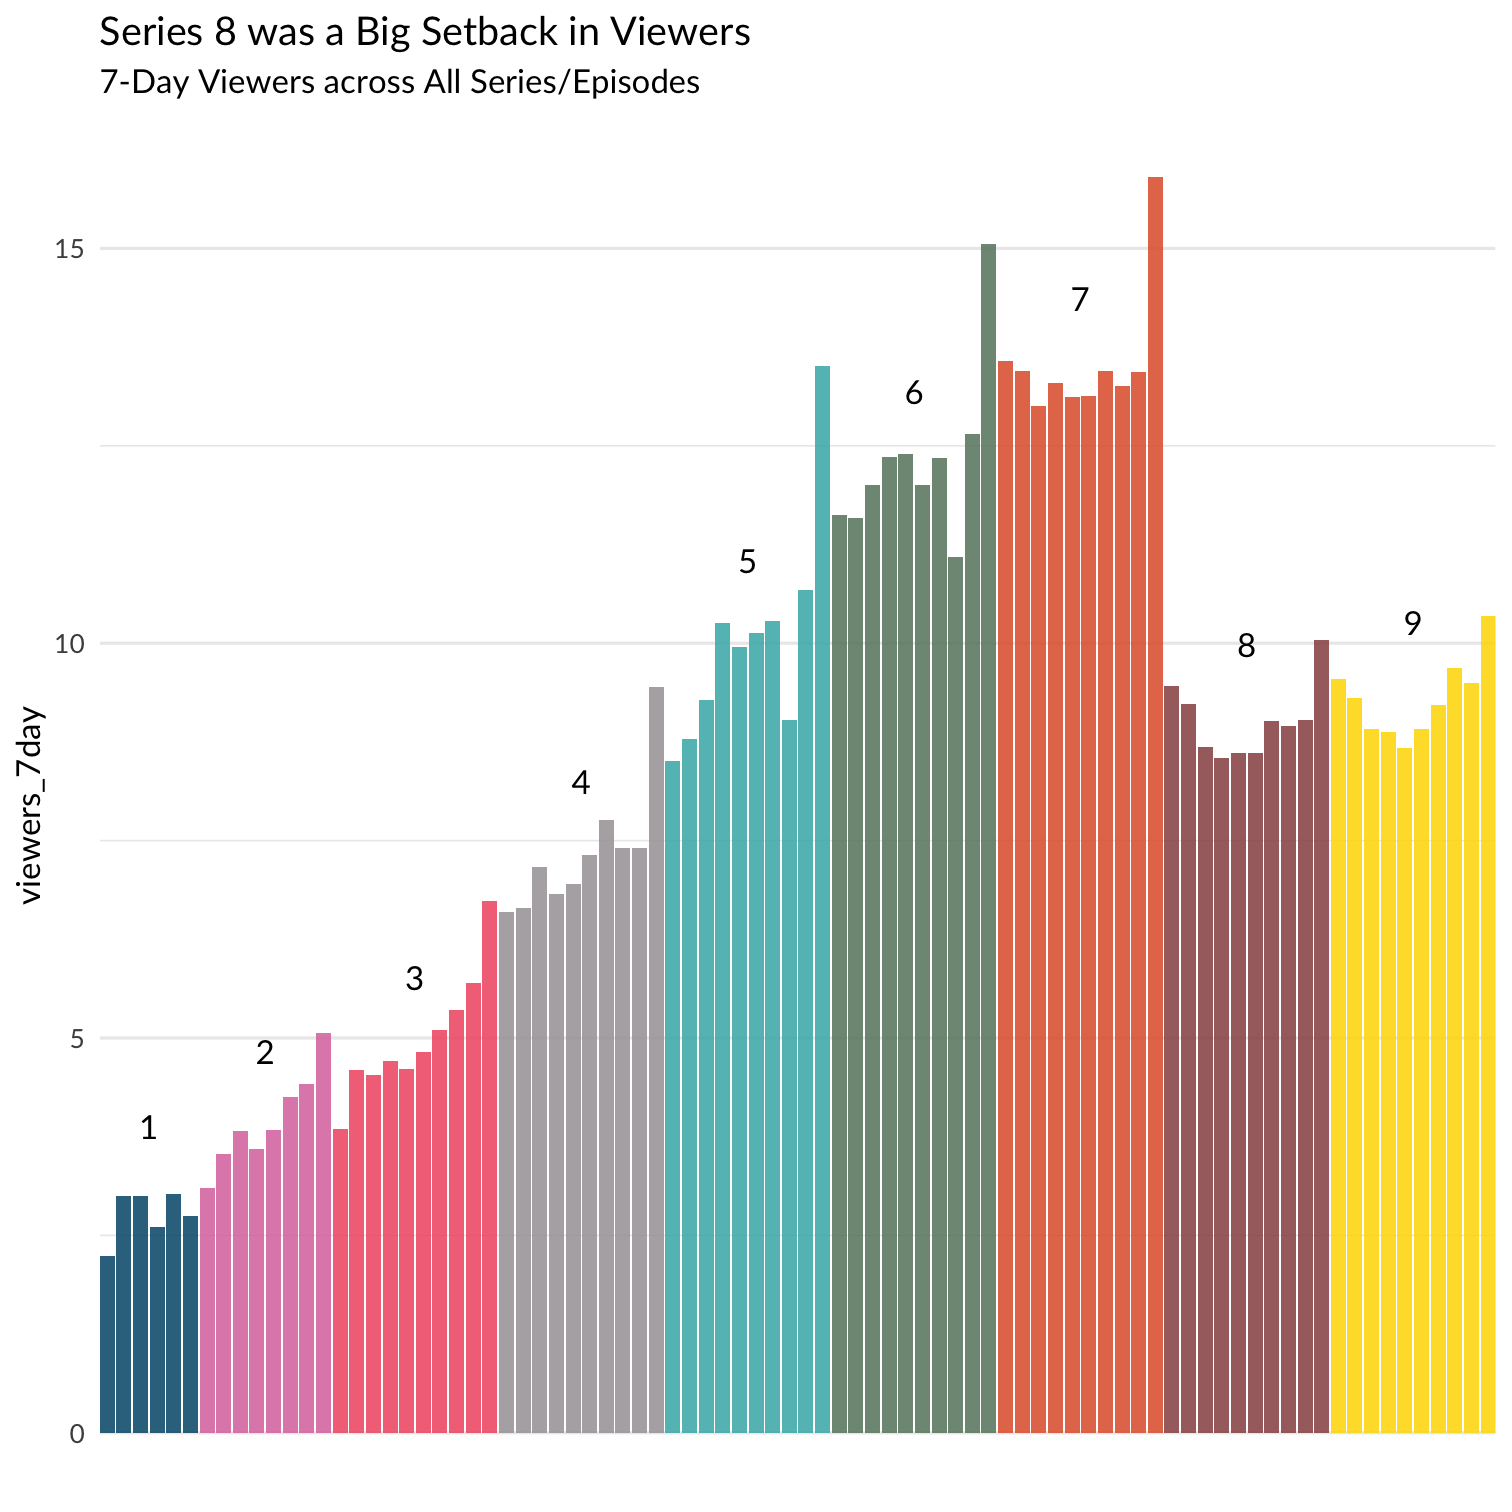
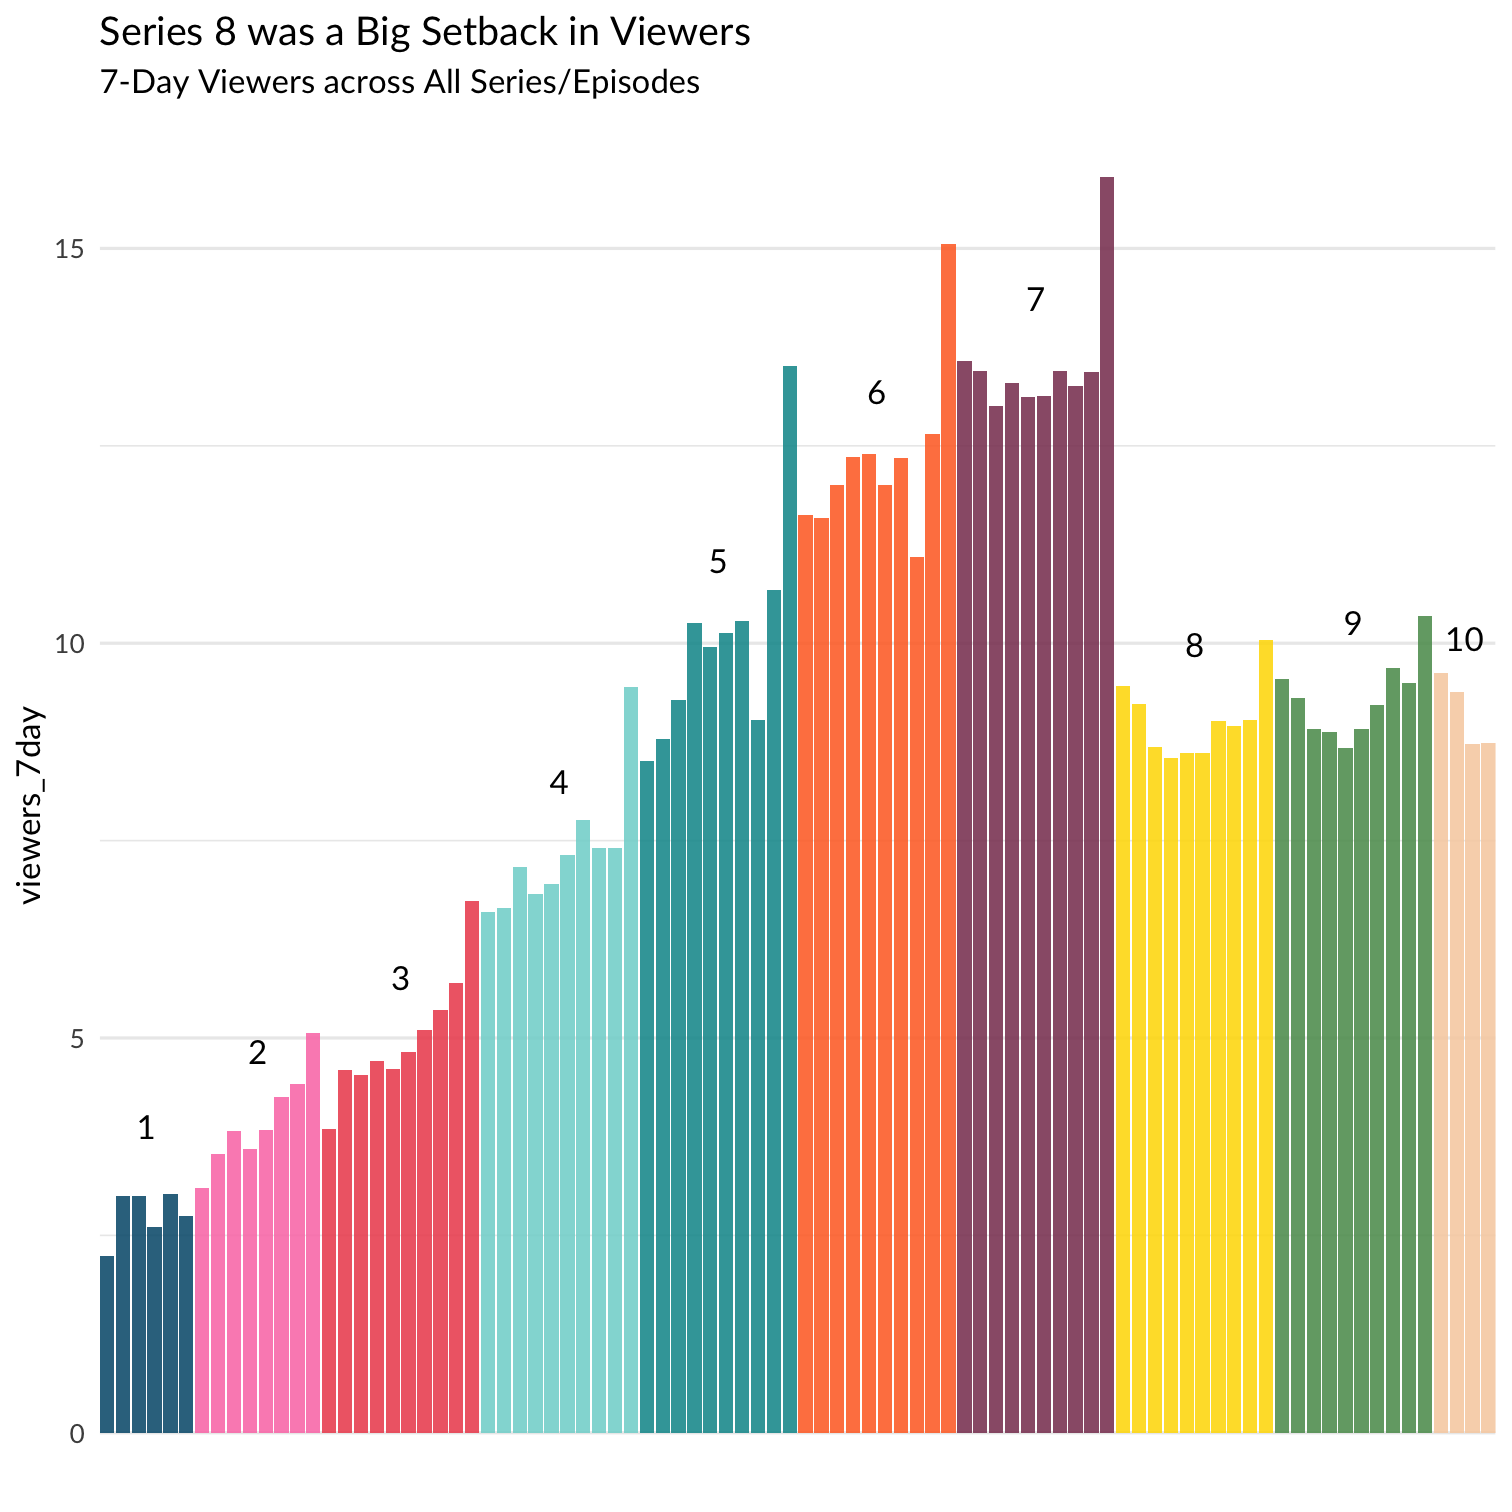
rls plot twist updates

diff --git a/rls-plot-twist/index.html b/rls-plot-twist/index.html
@@ -137,7 +137,16 @@ library(bakeoff) # data + colors!
 
 
 ```r
-ratings &lt;- ratings %&gt;% 
+series10 &lt;- tribble(
+  ~series, ~episode, ~viewers_7day,
+  10,   1, 9.62,
+  10,   2, 9.38,
+  10,   3, 8.72,
+  10,   4, 8.73
+) 
+
+ratings_ten &lt;- ratings %&gt;% 
+  full_join(series10) %&gt;% 
   mutate(series = as.factor(series))
 ```
 
@@ -146,10 +155,10 @@ ratings &lt;- ratings %&gt;%
 
 
 ```
-Observations: 84
+Observations: 88
 Variables: 8
 $ series               &lt;fct&gt; 1, 1, 1, 1, 1, 1, 2, 2, 2, 2, 2, 2, 2, 2, 3…
-$ episode              &lt;int&gt; 1, 2, 3, 4, 5, 6, 1, 2, 3, 4, 5, 6, 7, 8, 1…
+$ episode              &lt;dbl&gt; 1, 2, 3, 4, 5, 6, 1, 2, 3, 4, 5, 6, 7, 8, 1…
 $ uk_airdate           &lt;date&gt; 2010-08-17, 2010-08-24, 2010-08-31, 2010-0…
 *$ viewers_7day         &lt;dbl&gt; 2.24, 3.00, 3.00, 2.60, 3.03, 2.75, 3.10, 3…
 $ viewers_28day        &lt;dbl&gt; 7, 3, 2, 4, 1, 1, 2, 2, 1, 1, 1, 1, 1, 1, 1…
@@ -192,7 +201,7 @@ class: center, middle, inverse
 
 ```r
 # create continuous episode count
-plot_off1 &lt;- ratings %&gt;% 
+plot_off1 &lt;- ratings_ten %&gt;% 
 * mutate(ep_id = row_number()) %&gt;%
   select(ep_id, viewers_7day, series, episode)
 
@@ -215,7 +224,7 @@ series_labels &lt;- plot_off1 %&gt;%
         axis.title.x = element_blank(),
         panel.grid.major.x = element_blank(),
         panel.grid.minor.x = element_blank()) + 
-  scale_fill_bakeoff(guide = FALSE) +
+  scale_fill_manual(values = bakeoff_cols, guide = FALSE) +
   scale_x_discrete(expand = c(0, 0)) 
 ```
 
@@ -273,15 +282,15 @@ class: center, middle, inverse
 
 
 ```r
-plot_off2 &lt;- ratings %&gt;% 
+plot_off2 &lt;- ratings_ten %&gt;% 
 * group_by(series) %&gt;%
 * mutate(series_avg = mean(viewers_7day, na.rm = TRUE),
 *        diff_avg = viewers_7day - series_avg) %&gt;%
-  #filter(max(episode) == 10) %&gt;% 
+  filter(max(episode) == 10) %&gt;% 
   mutate(episode = as.factor(episode)) %&gt;% 
   select(episode, viewers_7day, series, diff_avg, series_avg)
 
-*ggplot(plot_off2, aes(x = episode, y = viewers_7day, color = diff_avg)) +
+*ggplot(plot_off2, aes(x = as.factor(episode), y = viewers_7day, color = diff_avg)) +
 * geom_hline(aes(yintercept = series_avg), alpha = .5) +
 * geom_point() +
 * geom_segment(aes(xend = episode, yend = series_avg)) +
@@ -326,7 +335,7 @@ class: center, middle, inverse
 
 
 ```r
-line_labels &lt;- ratings %&gt;% 
+line_labels &lt;- ratings_ten %&gt;% 
   group_by(series) %&gt;% 
   filter(episode == max(episode)) %&gt;% 
   select(series, x_position = episode, y_position = viewers_7day)
@@ -336,7 +345,7 @@ line_labels &lt;- ratings %&gt;%
 *                   color = as.factor(series),
 *                   group = series)) +
 * geom_line() +
-  scale_color_bakeoff(guide = FALSE) +
+  scale_color_manual(values = bakeoff_cols, guide = FALSE) +
   labs(color = "Series", x = "Episode") +
   geom_text(data = line_labels, aes(label = series,
                                       x = x_position + .25, 
@@ -377,13 +386,13 @@ class: center, middle, inverse
 
 
 ```r
-*ggplot(ratings, aes(x = as.factor(episode),
+*ggplot(ratings_ten, aes(x = as.factor(episode),
 *                   y = viewers_7day,
 *                   color = fct_reorder2(series, episode, viewers_7day),
 *                   group = series)) +
 * facet_wrap(~series) +
 * geom_line(lwd = 2) +
-  scale_color_bakeoff(guide = FALSE) +
+  scale_color_manual(values = bakeoff_cols, guide = FALSE) +
   labs(color = "Series", x = "Episode") 
 ```
 
@@ -420,7 +429,8 @@ class: center, middle, inverse
 
 ```r
 # some wrangling here
-plot_off5 &lt;- ratings %&gt;% 
+plot_off5 &lt;- ratings_ten %&gt;% 
+  filter(series %in% complete_series) %&gt;% 
   select(series, episode, viewers_7day) %&gt;% 
 * group_by(series) %&gt;%
 * filter(episode == 1 | episode == max(episode)) %&gt;%
@@ -434,7 +444,7 @@ plot_off5 &lt;- ratings %&gt;%
 *                     group = episode)) +
 * geom_point() +
 * geom_line() +
-  scale_color_bakeoff() +
+  scale_color_manual(values = bakeoff_cols) +
   ggtitle("Great British Bake Off Finales Get More Viewers than Premieres") +
   labs(color = "Episode")
 ```
@@ -496,7 +506,7 @@ class: center, middle, inverse
 *                     group = series)) +
 * geom_line(size = .75) +
 * geom_point(size = 2.5) +
-  scale_color_bakeoff() +
+  scale_color_manual(values = bakeoff_cols) +
   labs(y = "Series", x = "Viewers (millions)", color = "Episode") +
   ggtitle("Great British Bake Off Finales Get More Viewers than Premieres") 
 ```
@@ -544,7 +554,7 @@ slope_labels &lt;- plot_off5 %&gt;%
 *                     group = series)) +
 * geom_point() +
 * geom_line() +
-  scale_color_bakeoff(guide = FALSE) +
+  scale_color_manual(values = bakeoff_cols, guide = FALSE) +
   geom_text(data = slope_labels, aes(label = series,
                                     x = x_position,
                                     y = y_position),
@@ -587,7 +597,8 @@ class: center, middle, inverse
 
 ```r
 # some more serious wrangling here
-plot_off8 &lt;- ratings %&gt;% 
+plot_off8 &lt;- ratings_ten %&gt;%
+  filter(series %in% complete_series) %&gt;% 
   select(series, episode, viewers_7day) %&gt;% 
   group_by(series) %&gt;% 
   filter(episode == 1 | episode == max(episode)) %&gt;% 
@@ -639,7 +650,8 @@ class: center, middle, inverse
 
 ```r
 # wrangling to calculate percent change
-plot_off9 &lt;- ratings %&gt;% 
+plot_off9 &lt;- ratings_ten %&gt;% 
+  filter(series %in% complete_series) %&gt;% 
   select(series, episode, viewers_7day) %&gt;% 
   group_by(series) %&gt;% 
   filter(episode == 1 | episode == max(episode)) %&gt;% 
